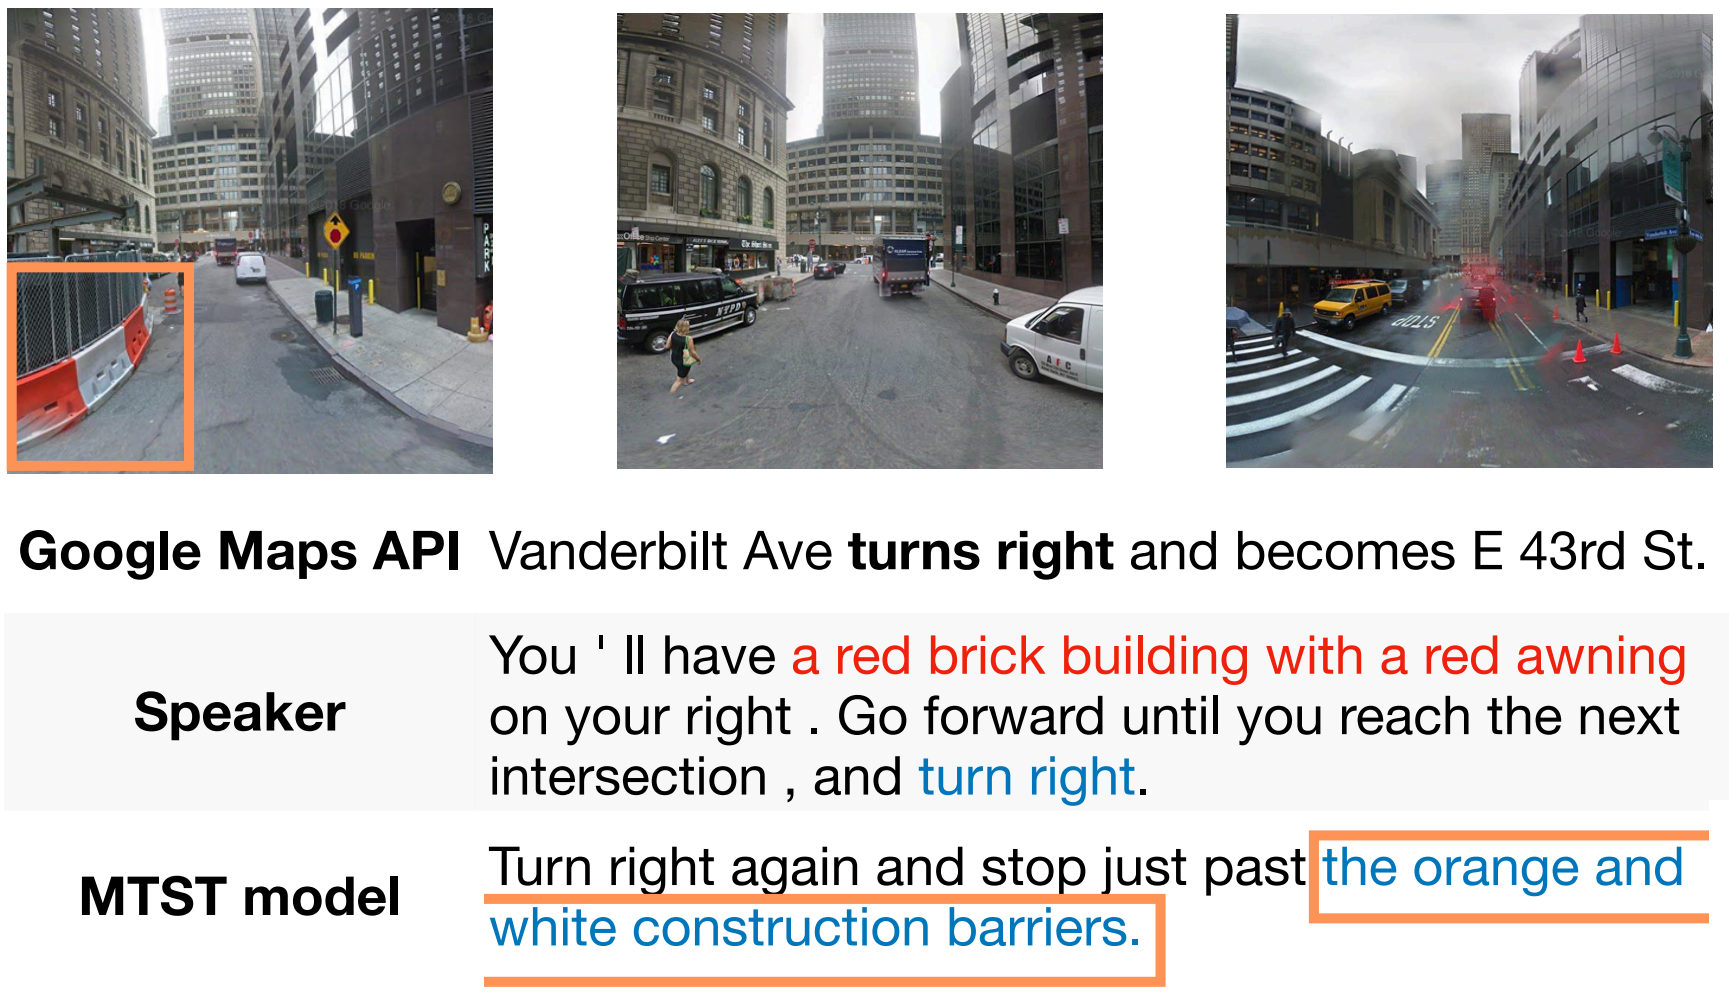
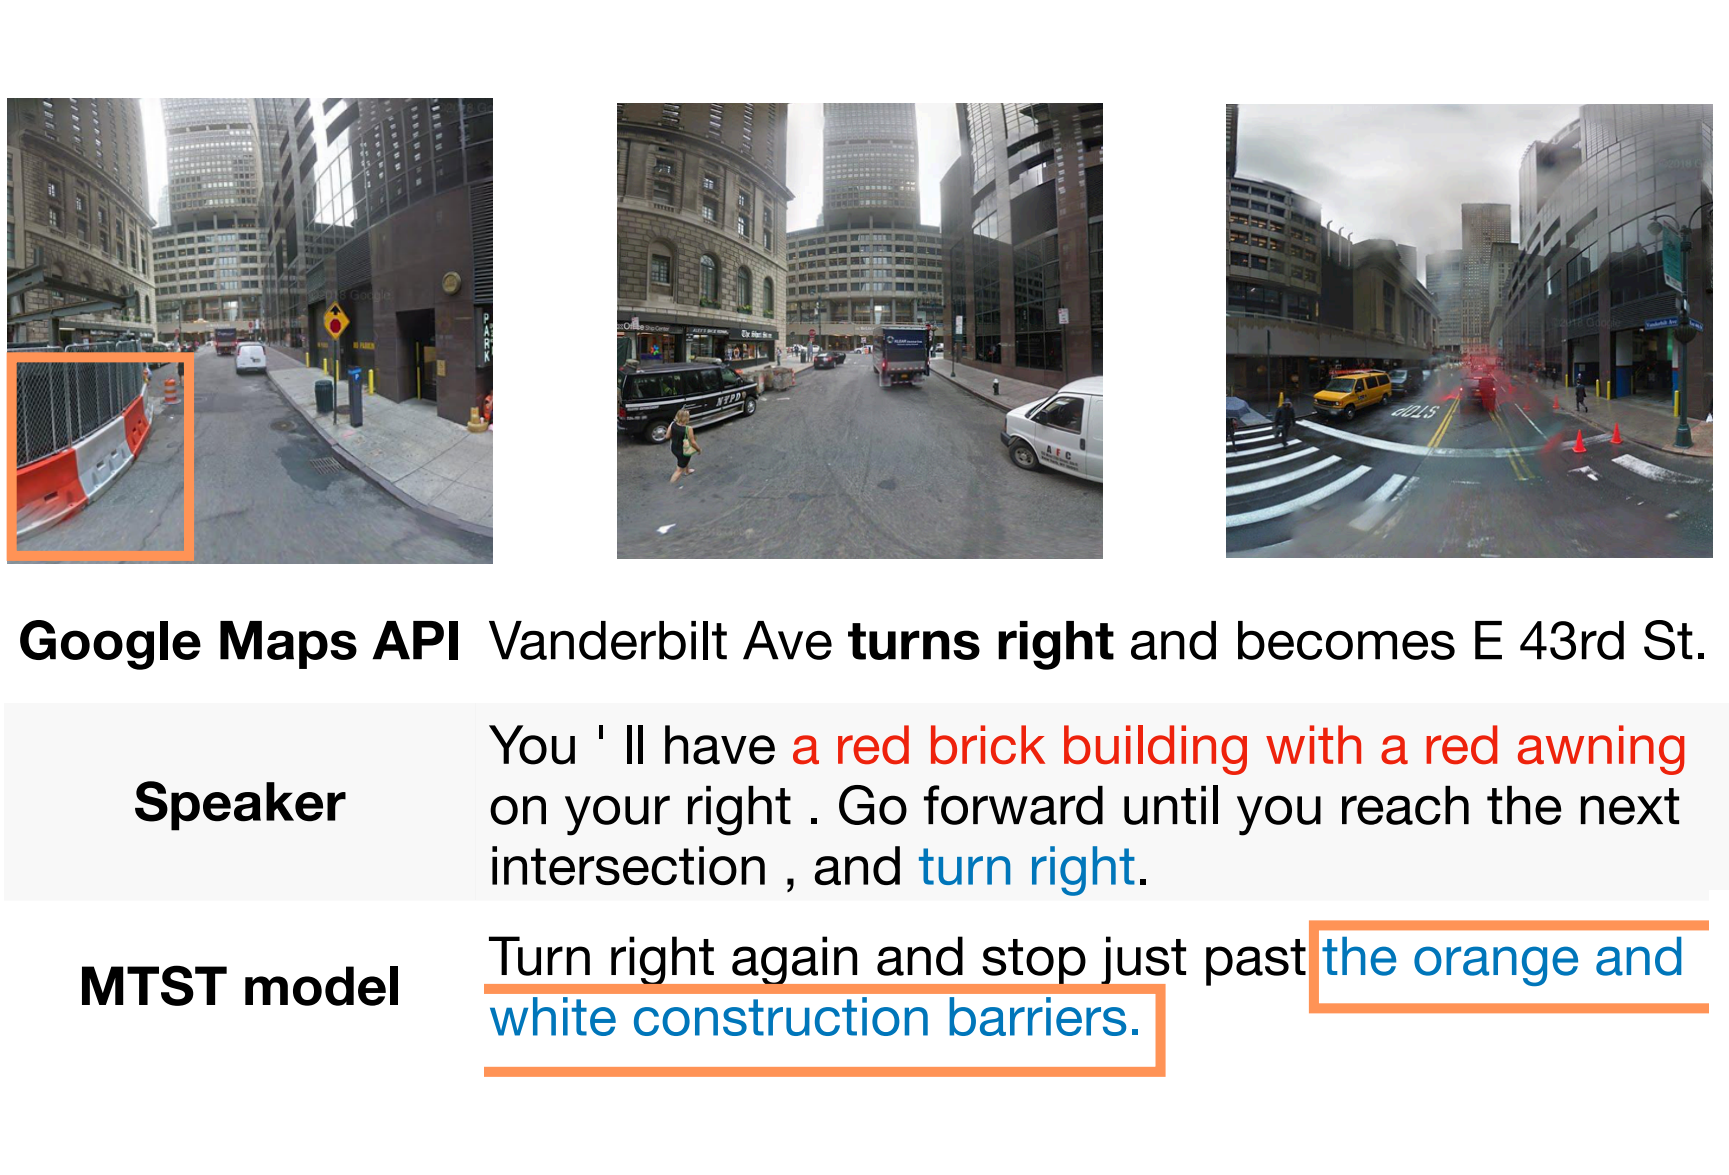
update

diff --git a/index.html b/index.html
@@ -21,6 +21,7 @@
                 text-decoration: none;
             }
             body {
+                background-color: #f2eee3;
                 font-family: "Nunito";
                 font-size: 16px;
             }
@@ -40,7 +41,7 @@
                 border-radius: 50%;
             }
             .pub img {
-                width: 300px;
+                width: 250px;
                 border: 1px solid;
                 border-radius: 10px;
             }

diff --git a/imgs/fill.py b/imgs/fill.py
@@ -1,0 +1,13 @@
+import os, sys
+import numpy as np
+from PIL import Image
+
+if __name__=='__main__':
+    file = sys.argv[1]
+    img = np.array(Image.open(file))
+    H, W = img.shape[:2]
+    nH, nW = int(W*170/250), W
+
+    out = np.ones((nH, nW, 3), dtype='uint8')*255
+    out[(nH-H)//2:(nH-H)//2+H, :W, :] = img[:, :, :3]
+    Image.fromarray(out).save(file)
